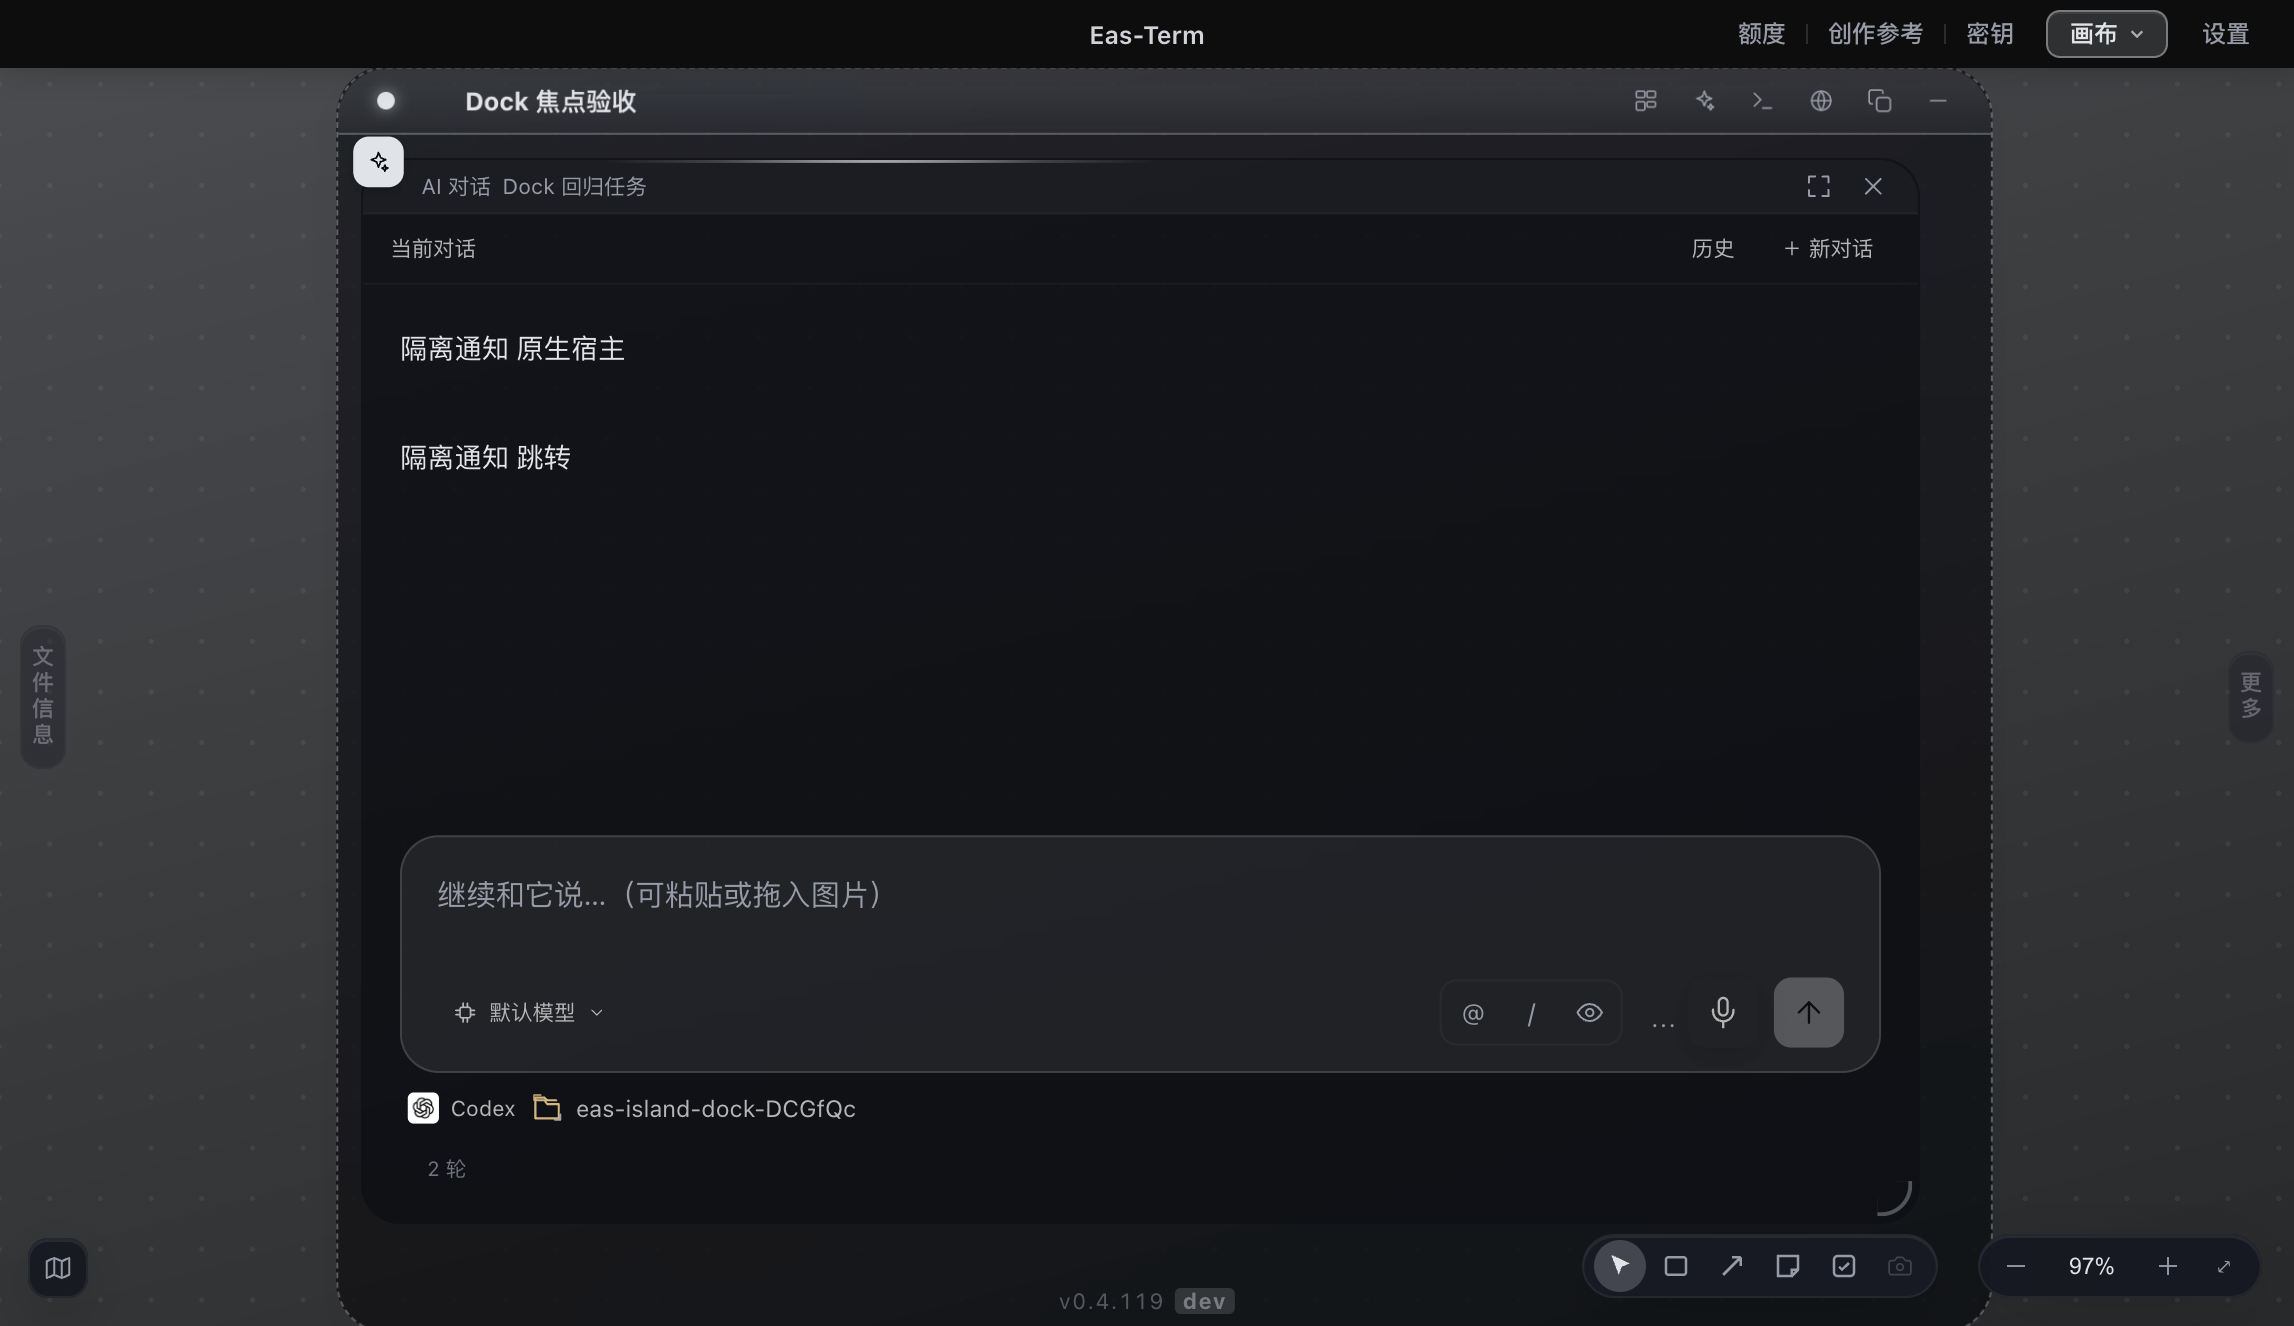
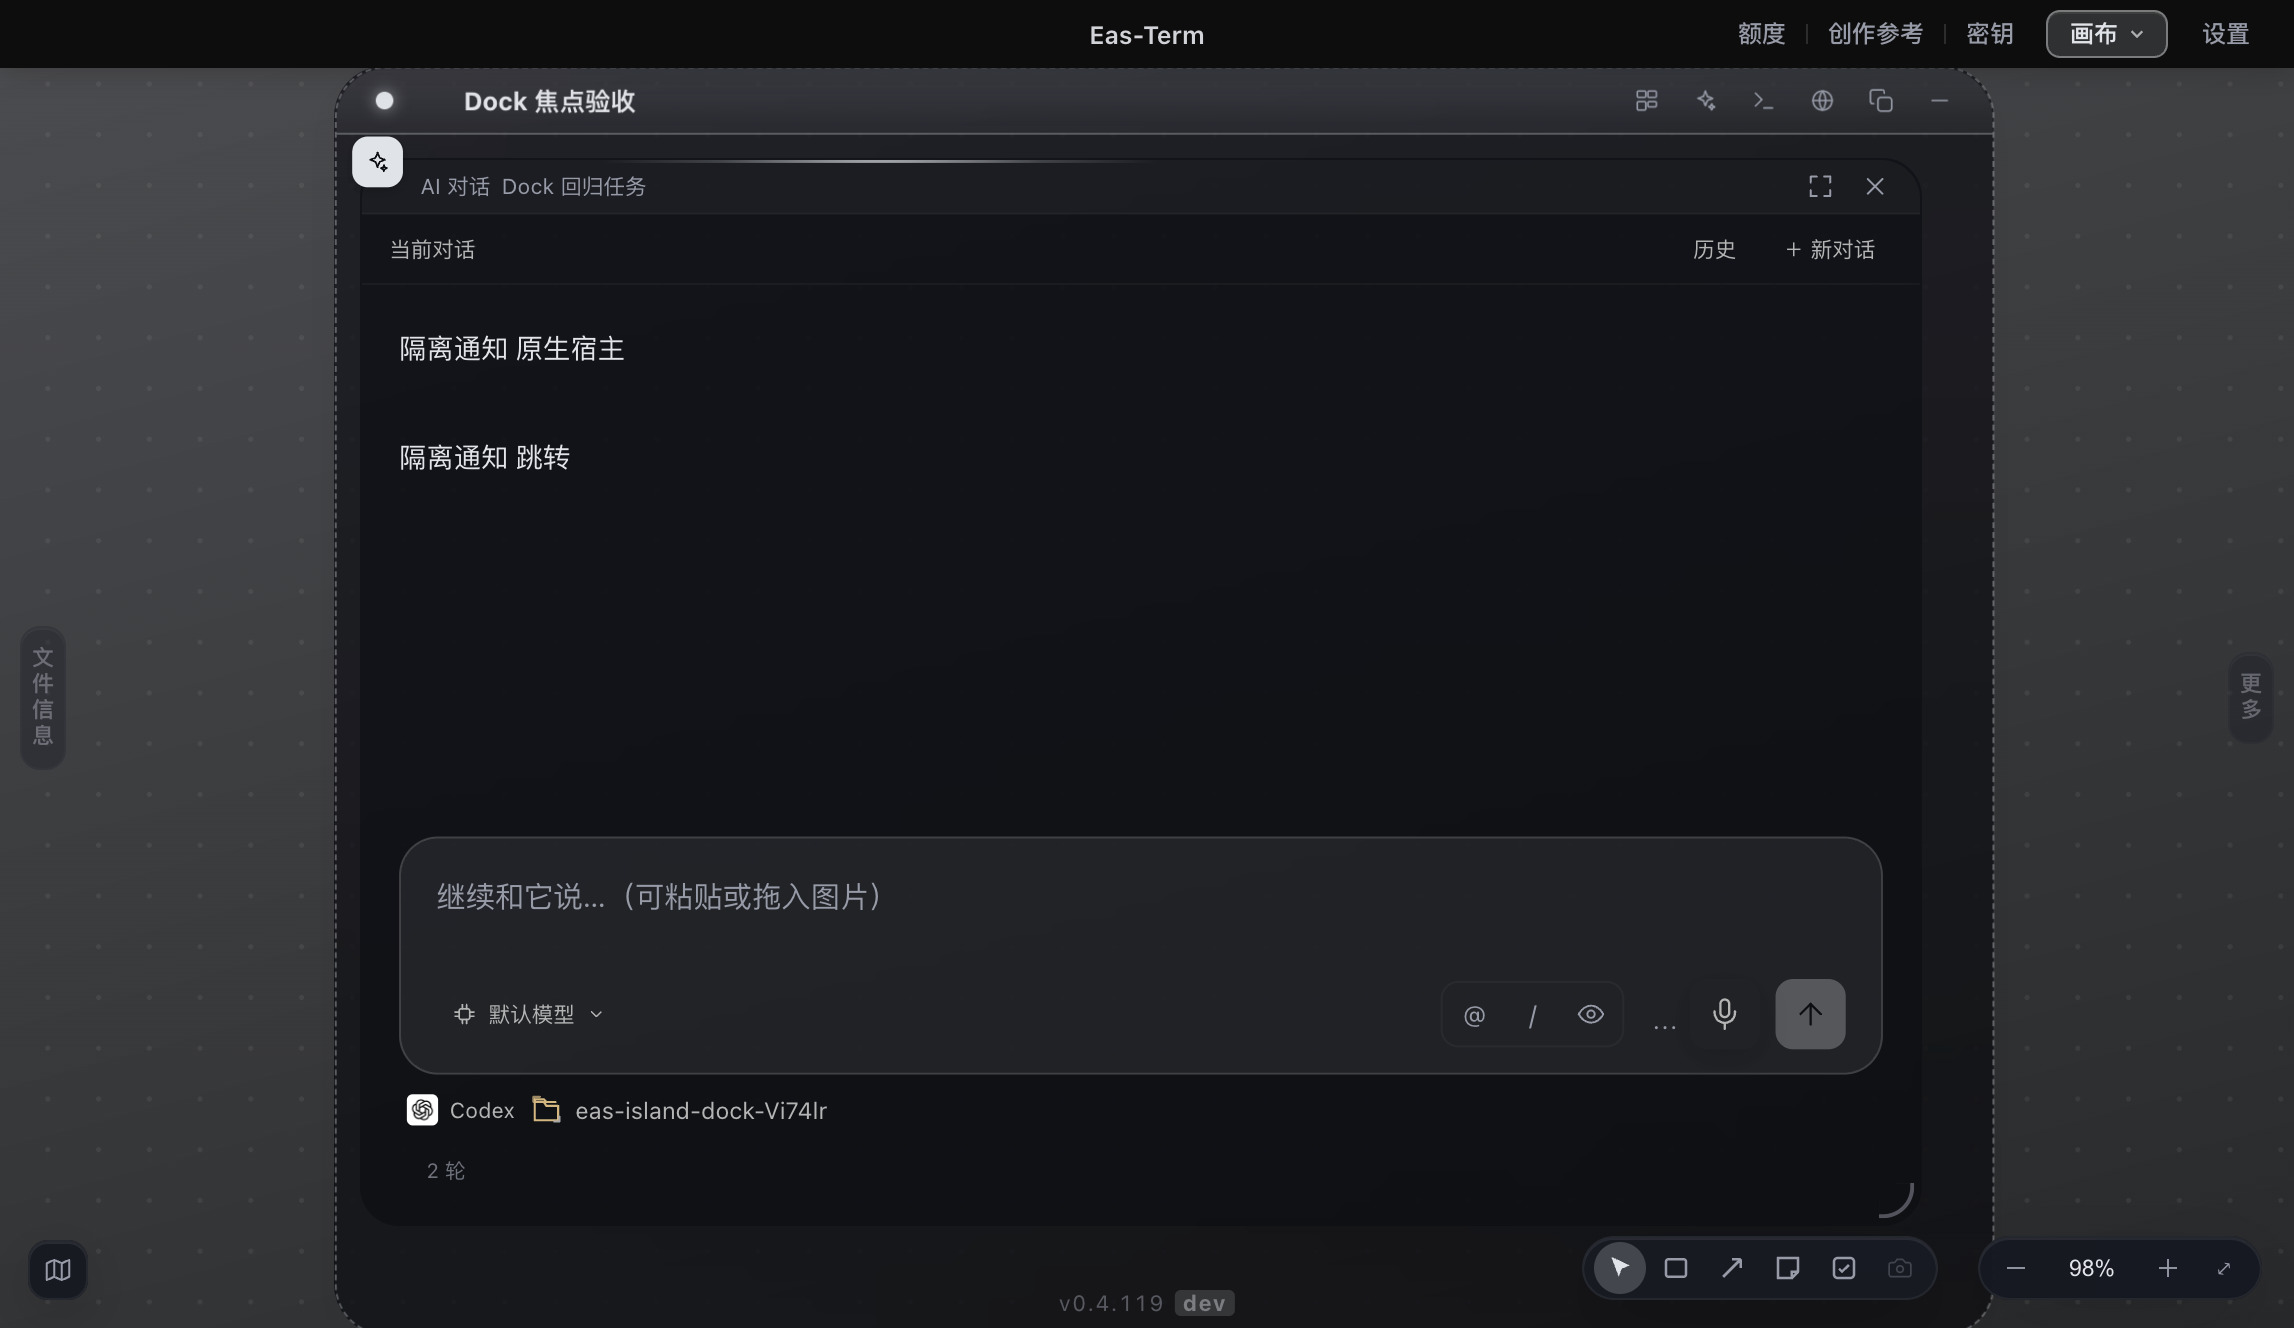
fix(island): native service stop only destroys; reset failure count after 30s stable
Re-review N-1: the shared-service stop callback also runs on main-window
reload/release and on shutdown, so making it sticky disabled the island for
the rest of the session. N-2: failures only reset after 30s of stable uptime.

diff --git a/src/main/island.ts b/src/main/island.ts
@@ -52,6 +52,7 @@ let lastCrashRecreateAt = 0
  *  避免墙钟/单调钟误差让定时器那一下恰好落在守卫里、之后再没人叫醒。 */
 let nativeFailedAt = 0
 let nativeFailures = 0
+let nativeReadyAt = 0
 const NATIVE_RETRY_GUARD_MS = 2500
 const NATIVE_MAX_FAILURES = 5
 const nativeRecovery = createIslandRecovery(() => reconcile())
@@ -459,7 +460,7 @@ function createIsland(): IslandWindowHandle {
     const host = new NativeIslandHost({binary, assets,
       onEvent: event => {
         if (host !== islandWin || host.isDestroyed()) return
-        if (event.type === 'ready') {nativeFailures=0;host.webContents.send('island:lang',currentLang());placeWindow(host);pushState(host);host.showInactive()}
+        if (event.type === 'ready') {nativeReadyAt=Date.now();host.webContents.send('island:lang',currentLang());placeWindow(host);pushState(host);host.showInactive()}
         else if (event.type === 'resize') handleIslandResize(event.w,event.h)
         else if (event.type === 'hold') handleIslandHold(event.value)
         else if (event.type === 'action' && allowHostAction(event.action,lastState)) handleIslandAction(event.action)
@@ -467,16 +468,18 @@ function createIsland(): IslandWindowHandle {
       onClose: () => {if (islandWin === host) islandWin = null},
       onError: reason => {
         if (host !== islandWin) return // 用户在运行中心主动停掉的旧实例，不算故障、不重建
-        nativeFailedAt = Date.now();nativeFailures++;logIslandFatal(reason)
+        // 稳定跑过 30s 才算恢复健康、清零计数；ready 后立刻又崩的宿主照样会累计到上限
+        if (nativeReadyAt && Date.now() - nativeReadyAt > 30_000) nativeFailures = 0
+        nativeReadyAt = 0;nativeFailedAt = Date.now();nativeFailures++;logIslandFatal(reason)
         if (nativeFailures < NATIVE_MAX_FAILURES) nativeRecovery.schedule()
         else logIslandFatal(`原生宿主连续失败 ${nativeFailures} 次，停止重建（等下次启动）`)
       }
     })
     const serviceId='island-native:'+randomUUID()
-    sharedServices.add({id:serviceId,name:t('island.serviceName'),kind:'notification',completed:host.completed,stop:()=>{
-      // 运行中心「停止」：本次运行不再重建（否则下一次 reconcile 立刻又建一个，停了等于没停）
-      nativeFailures=NATIVE_MAX_FAILURES;host.destroy()
-    }})
+    sharedServices.add({id:serviceId,name:t('island.serviceName'),kind:'notification',completed:host.completed,
+      // 这个 stop 不只运行中心会调：主窗口 reload/替换时 releaseWindow、退出时 shutdown 都走它，
+      // 所以只能销毁、不能顺手「本次运行不再重建」——那样一次普通 reload 就让灵动岛整场消失
+      stop:()=>host.destroy()})
     const owner=mainWindow()
     if(owner)sharedServices.retain(serviceId,owner.webContents.id,null)
     return host

diff --git a/docs/architecture/03b-补充护栏详情.md b/docs/architecture/03b-补充护栏详情.md
@@ -215,7 +215,7 @@ Lab 隔离修正：不要再修改主进程 HOME 来模拟用户根目录，macO
 旧问题：approve 只带 ptyId + 选项序号，CLI 换成下一个请求时序号照样是 1/2/3，旧点击会原样批准新请求（原生宿主因此曾在 Lab 禁用直接批准）。现规则：`uiSlice.setPtyApproval` 写入时经 `approvalRev.stampApprovalRev` 盖 `rev`（内容不变沿用、旧请求清掉后同文再问发新 rev）；`IslandNotice.rev` 推给灵动岛，点击把 `rev` 原样带回；渲染层 `islandApprovalMatches` 对不上当前 store 就不写回终端（Electron 与原生两条路共用这一道）。原生宿主另在主进程 `allowHostAction` 按 `hostPresentation` 的**实际显示内容**核对 rev/序号/危险/stale。审批正文、问句或选项超长 → 整条降级「回终端查看」，**不截断**。别把 rev 校验改成可选，也别在 setPtyApproval 每次重扫都换新 rev（按钮会永远失效）。**覆盖范围要说实话**：setPtyApproval 目前只在 TerminalView 的「转圈→空闲」150ms 后调用，且 setPtyRunning(true)/clearAttention 会清掉审批，所以 rev 挡住的是「中间跑过一轮」的新请求；CLI 不转圈、原地把 A 换成 B 时不会重扫，store 里仍是 A 的 rev——这是本改动之前就存在的缺口，要补得在点击时按终端现屏重解析比对指纹。— `approvalRev.ts` · `islandHostProtocol.ts` · `useIslandFeed.ts` · `Island.tsx`
 
 ### 2026-10-01 · 原生灵动岛合入主线时的四条约束（审查修正）
-- **两套故障节流分开记**：Electron 崩溃自愈用 `lastCrashRecreateAt`（崩溃处理里自己判 3s），原生宿主用 `nativeFailedAt/nativeFailures`；reconcile 的建窗守卫只看后者。共用一个时间戳时 Electron 崩溃后会被守卫当场拦下、永不自愈（`islandDockPolicy.test.mjs` 钉着）。原生连续失败 5 次或运行中心「停止」后，本次运行不再重建。
+- **两套故障节流分开记**：Electron 崩溃自愈用 `lastCrashRecreateAt`（崩溃处理里自己判 3s），原生宿主用 `nativeFailedAt/nativeFailures`；reconcile 的建窗守卫只看后者。共用一个时间戳时 Electron 崩溃后会被守卫当场拦下、永不自愈（`islandDockPolicy.test.mjs` 钉着）。原生宿主连续失败 5 次（ready 后稳定 30s 才清零计数）后本次运行不再重建、只记日志。**服务的 stop 回调只能销毁**：主窗口 reload/替换（releaseWindow）和退出（shutdown）也走它，在里面设「不再重建」会让一次普通 reload 就把灵动岛整场关掉（复审 N-1）。运行中心「停止」因此会被下一次 reconcile 立即重建，属 Lab 已知小问题。
 - **原生宿主开关**：`useNativeIsland()` = Lab 包，或**未打包**且 `EAS_ISLAND_NATIVE=1`。正式包不带宿主二进制，别让环境变量在正式包里打开它；Lab 也不再往 process.env 写这个变量（会被每个终端继承）。
 - **语言**：原生 bridge 的 `lang` 恒为 'zh'，主进程在 ready 时补发 `island:lang`（面板 ready 后才显示，不闪中文），语言切换由 island.ts 的 onLangChanged 单独转发（i18n.ts 只广播 BrowserWindow）。bridge 与 `src/preload/island.ts` 的 API 键必须一致——主线 f293c8cd 加 lang 时 bridge 没跟上，原生页加载即抛错、ready 永远不来。
 - **子进程 HOME**：pty/probeEnv/pluginHost 只在 Lab 隔离时改写 HOME（`isolatedApplicationHome()`），正式版保持原 env；Windows 原本可能没有 HOME，别悄悄注入。Lab 资源 `out/island-native-assets` 已在 package.json `build.files` 里排除，不进正式 asar。

diff --git a/docs/verification/island-native-host-20261001/README.md b/docs/verification/island-native-host-20261001/README.md
@@ -10,7 +10,8 @@ refactor/island-native-host-20260928（/tmp/eas-island-dock-20260928，原样快
 
 ## 自动检查
 - 第一轮 npm run check：4337 项，4318 通过 / 19 跳过 / 0 失败（审查修复前）。
-- 第二轮见 check2.log（审查修复后）。
+- 第二轮 npm run check（审查修复后）：4339 项，4320 通过 / 19 跳过 / 0 失败，见 check2.log。
+- 复审 N-1（stop 回调设上限会让一次普通 reload 关掉整场灵动岛）已改回仅销毁，测试钉住；N-2 计数改为 ready 后稳定 30s 才清零。原生 8 项在最终代码上重跑通过。
 - 新增测试先红后绿：approvalRev 3 项、islandHostProtocol 绑定 3 项；Electron 崩溃自愈守卫测试在旧写法下红、修复后绿。
 
 ## 真机（隔离实例：临时 userData + 假 HOME + --use-mock-keychain，测试夹具通知，CGEvent 真点击）
